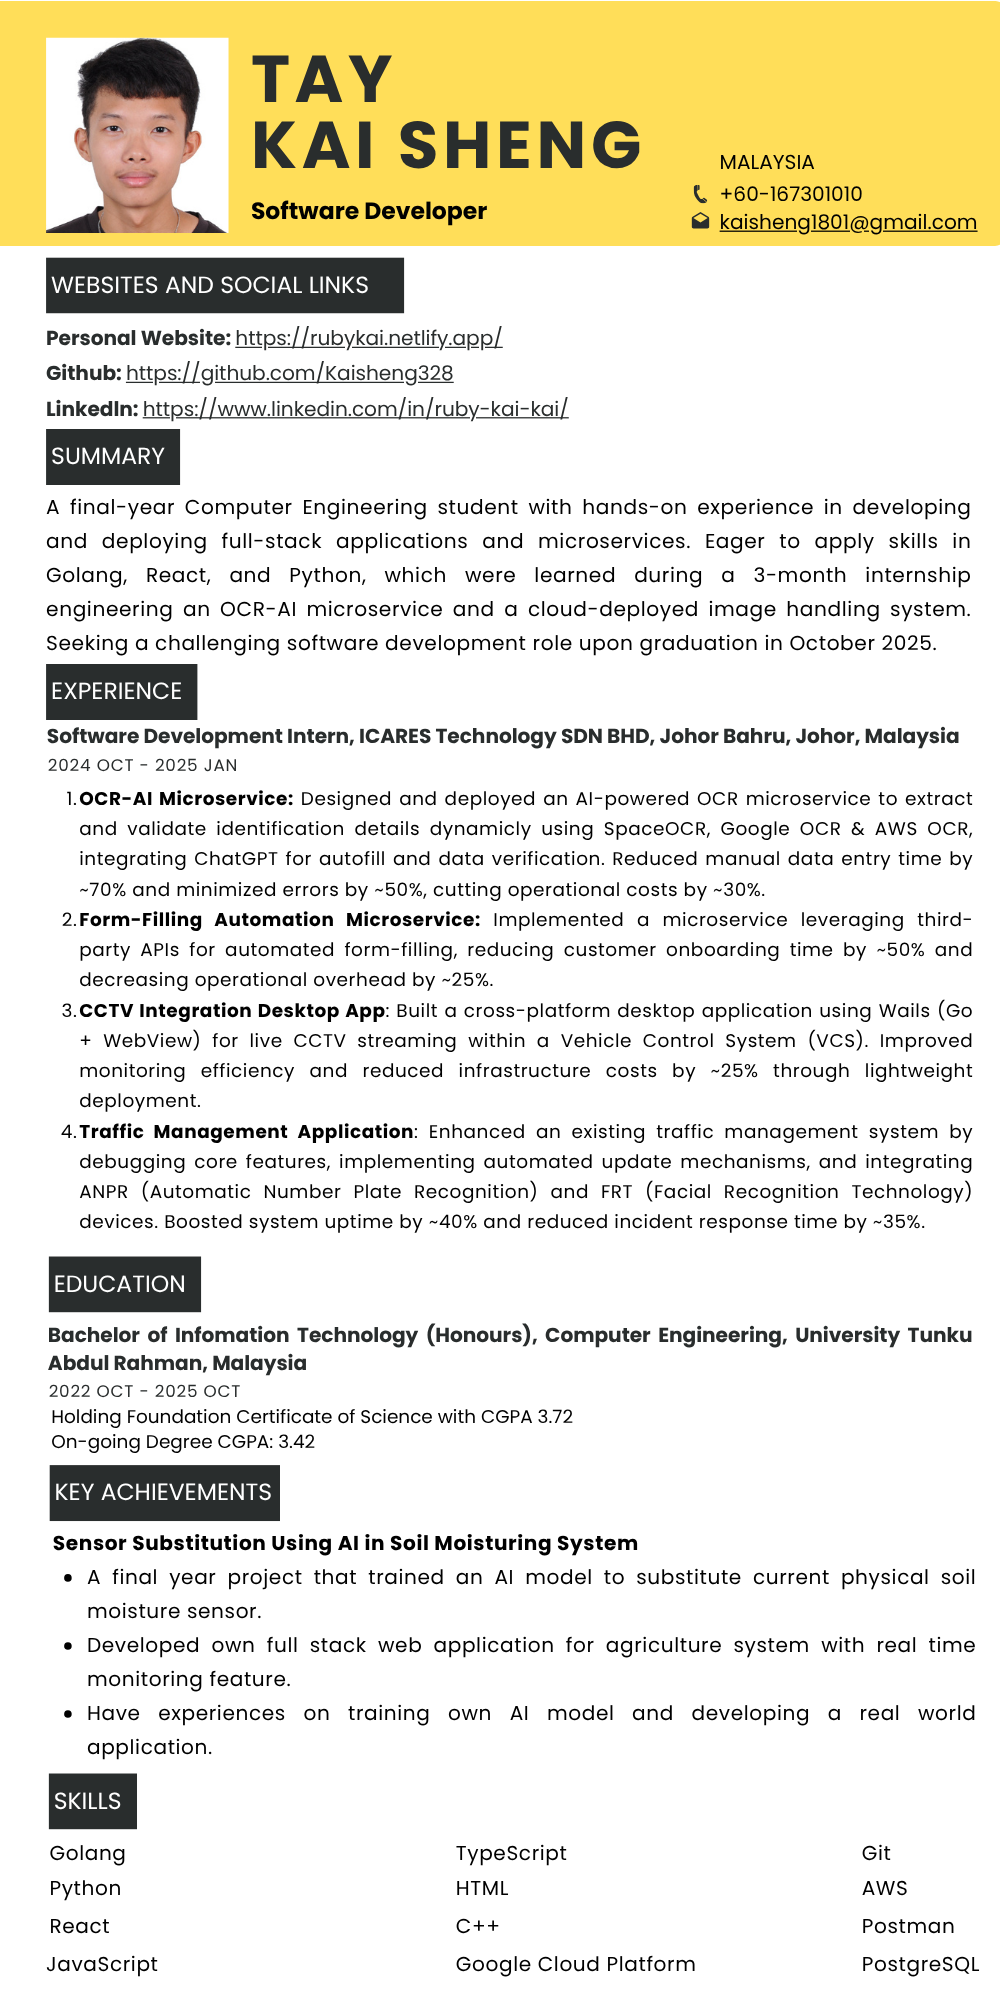
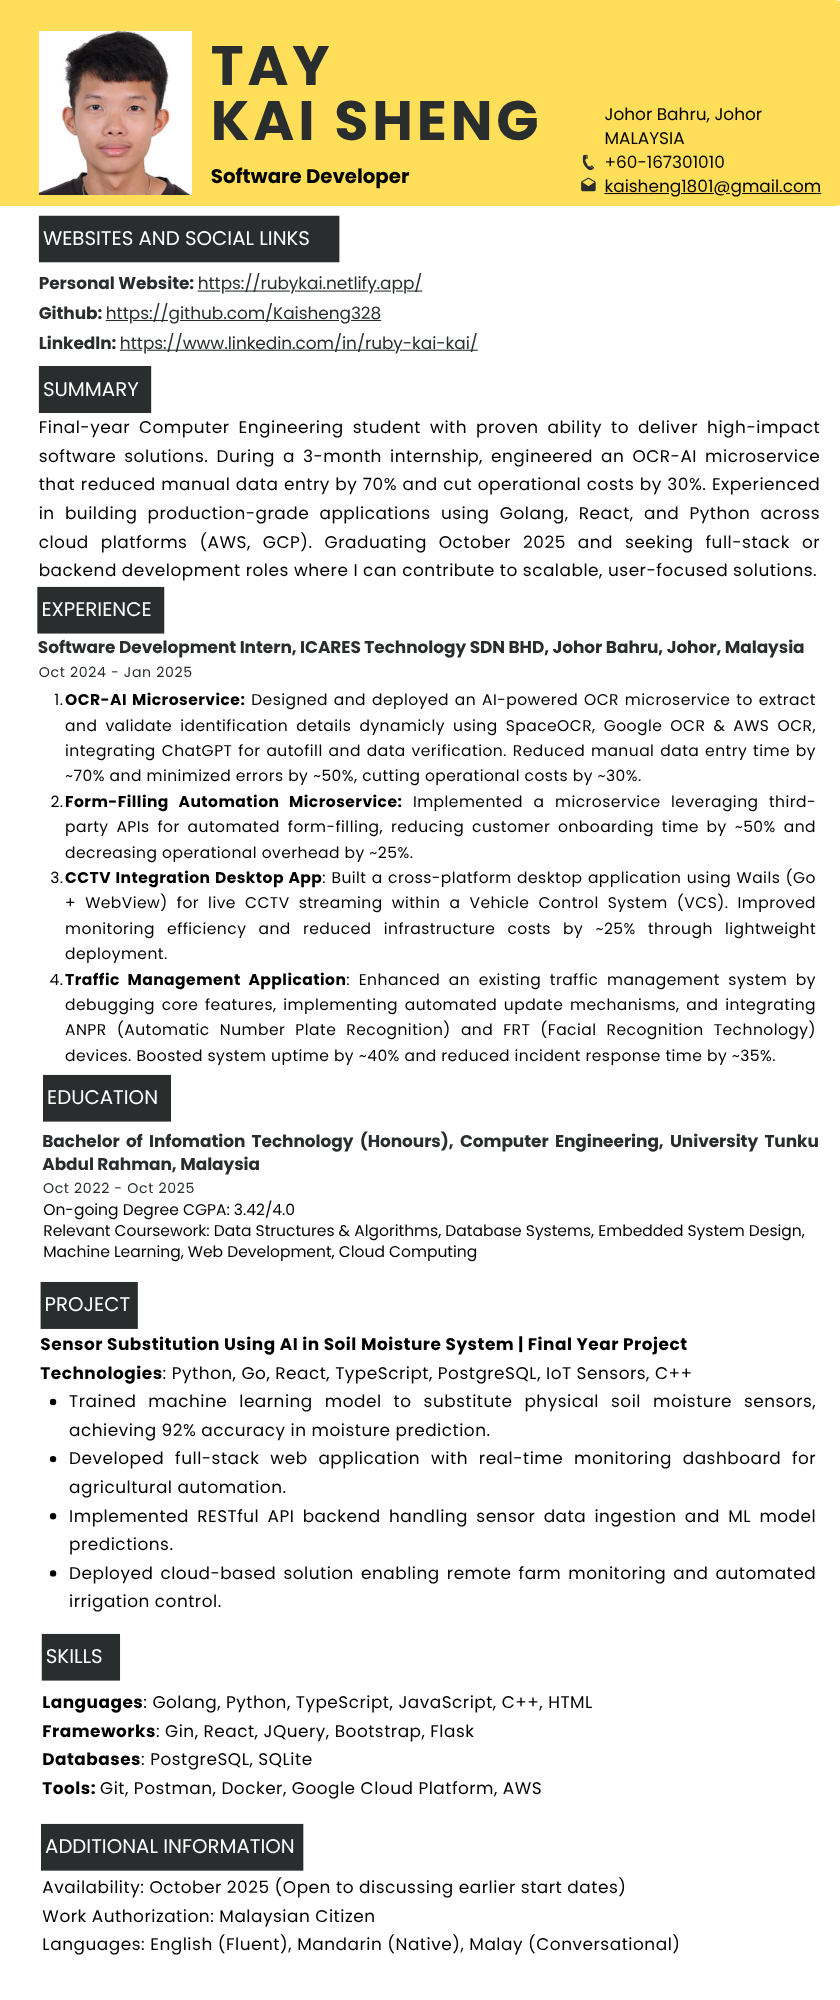
new

diff --git a/index.html b/index.html
@@ -614,15 +614,7 @@
         <!-- Section Title -->
         <div class="container section-title" data-aos="fade-up">
           <h2>Resume</h2>
-          <p>Proactive and detail-oriented Software Developer Intern with hands-on experience in frontend and backend
-            development, leveraging Golang, Vue.js, TypeScript, and Tailwind CSS to create efficient, user-friendly
-            applications. Successfully implemented features such as auto-updates for desktop apps, dynamic form
-            generation using JSON, and image handling systems with functionalities like resizing, watermarking, and
-            Firebase integration. Skilled in deploying applications on Google Cloud and Railway, with a strong
-            understanding of Docker, GitHub CI/CD workflows, and environment variable management for secure development.
-            Experienced in OCR-based projects, integrating AI services like ChatGPT, and developing responsive, modern
-            web interfaces. Passionate about solving complex technical problems and delivering innovative solutions to
-            enhance user experience.</p>
+          <p>Final-year Computer Engineering student with proven ability to deliver high-impact software solutions. During a 3-month internship, engineered an OCR-AI microservice that reduced manual data entry by 70% and cut operational costs by 30%. Experienced in building production-grade applications using Golang, React, and Python across cloud platforms (AWS, GCP). Graduating October 2025 and seeking full-stack or backend development roles where I can contribute to scalable, user-focused solutions.</p>
         </div><!-- End Section Title -->
 
         <div class="container">
